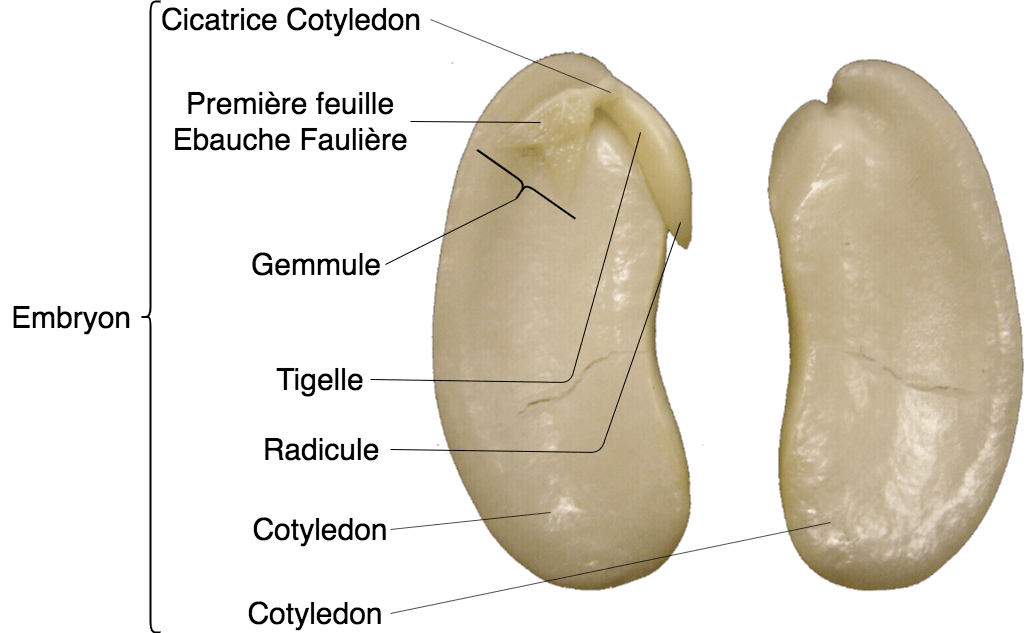
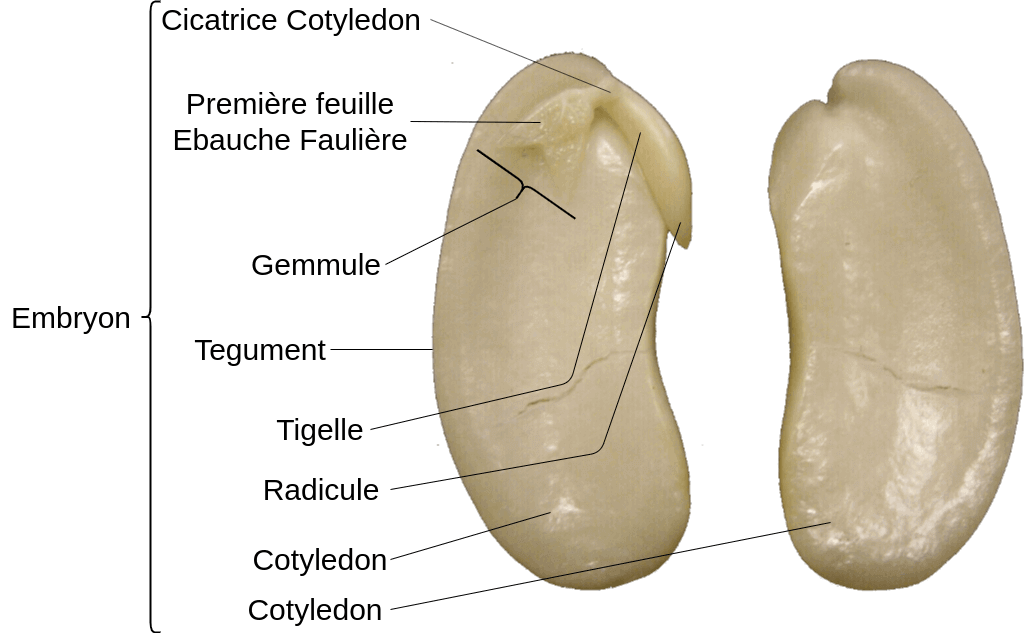
Correction photo haricot plus refactor
Refactor biodiversité végétales suite

diff --git a/biodiversite/biodiversite-vegetale.md b/biodiversite/biodiversite-vegetale.md
@@ -41,6 +41,8 @@ Les cellules végétales sont **eucaryotes**, d'une taille d'environ **100μm**.
 * **Ribosome** \(Fabrique des protéine\)
 * **Vacuole** délimité par une membrane, le **Tonoplaste**
 {% endhint %}
+![Sch&#xE9;ma d&apos;une cellule v&#xE9;g&#xE9;tale](../.gitbook/assets/cellule-vegetale.jpg)
+![Cellule v&#xE9;g&#xE9;tale](../.gitbook/assets/la_cellule_vegetale_07_13.jpg)
 ##### Vacuole
 {% hint style="warning" %}
 La vacuole est délimitée par le **tonoplaste** et éffectue différent rôle
@@ -61,6 +63,9 @@ Constitution d'une paroi primaire
 * enzymes
 {% endhint %}
 Certaines cellules on la possibilité d'avoir deux parois. La paroi secondaire se situes sous la paroi primaire
+{% hint style="info" %}
+**Lamelle moyenne** est le **ciment** entre les cellules végétales
+{% endhint %}
 Les parois peuvent avoir des spécialisation
 {% hint style="warning" %}
 * Lignification, Incrustation lignine (hydrophobe, insoluble)
@@ -115,10 +120,81 @@ Les parois assurent différents rôle
 ##### Soutient
 ## Plan organisation Morphologique
 ### Graine
+Le point de départ des angiosperme est la graine, formée de différentes parties
+{% hint style="warning" %}
+* Gemmule
+* Première feuille
+* Tigelle
+* Radicule
+* Cotylédon \(réserve\)
+* Tégument \(Entoure le cotylédon\)
+{% endhint %}
+![](../.gitbook/assets/graine-haricot.png)
 ### Bourgeon
 ### Tige
 ### Racine
 ### Feuille
+{% hint style="info" %}
+#### **Définition**
+
+**Feuille :** Organe aplati, généralement de couleur verte, qui assure l'essentiel de la photosynthèse et les échange d'eau et de gaz avec l'atmosphère.
+
+**Limbe :** Partie élargie et aplatie de la feuille qui assure la photosynthèse.
+
+**Marge :** La marge est le contour du limbe.
+
+**Nervure :** Ligne saillante formée par les faisceaux conducteurs de la feuille.
+
+**Pétiole :** Structure de petite dimension, à symétrie bilatérale, **reliant le limbe** de la feuille à la **tige** qui convient les **vaisseaux conducteurs de sève.**
+
+**Bourgeon :** Structure constituée par de très jeunes feuilles \(Bourgeon foliaire\) ou de très jeunes fleurs \(Bourgeon florale\) situé sur un axe relativement court, terminé par un méristème apical caulinaire, et protégé par des feuilles modifiées, les écailles.  
+**Le bourgeon ne fais pas partie de la feuille !**
+
+**Tige :** Organe généralement aérien, plus ou moins dressé et ramifié, sur lequel se développent des bourgeons qui se différencient soit en feuilles, soit en fleurs, soit en axes secondaires \(rameaux\) qui, à leur tour, portent des feuilles ou des fleurs.
+
+**Foliole :** Division d'une feuille composée en unités élémentaires \(Contrairement au feuille, les folioles ne possèdent pas de bourgeons\)
+{% endhint %}
+
+{% hint style="warning" %}
+Une feuille simple est bien différente qu'une feuille composée.  
+Pour trouver une feuille il faut situer ou est le bourgeon, qui est la "Base" de cette dernière.
+{% endhint %}
+
+{% hint style="warning" %}
+#### Nervation
+* Marge du limbe
+  * Entière
+  * Dentée
+  * Lobée
+* Nervure
+  * Pénée
+  * Palmée
+  * Parallèle
+{% endhint %}
+
+![](../.gitbook/assets/schema-feuille-simple-et-compose.jpg)
+
+![](../.gitbook/assets/differenciation-feuille.jpg)
+
+{% hint style="danger" %}
+Le **bourgeon** ne fais pas partie de la **Feuille**
+{% endhint %}
+
+![Photo feuille composée](../.gitbook/assets/feuille-compose-haricot.jpg)
+
+#### Phyllotaxie
+Il existe 4 grandes phyllotaxie
+{% hint style="warning" %}
+* Alterne spiralée
+* Alterne distique
+* Opposée décussée
+* Verticillée
+{% endhint %}
+
+![Phyllotaxie](../.gitbook/assets/phyllotaxie.png)
+
+![Compos&#xE9; de stipules ou non ? ](../.gitbook/assets/compose-de-stipules.png)
+
 ## Adaptation aux condition environnemental
 ## Travaux Pratique
 ## Définition
@@ -136,127 +212,6 @@ Le groupe des angiosperme est le dernier à être arriver sur terre est donc **l
 {% endhint %}
 
 ![Grand groupe des v&#xE9;g&#xE9;taux sur terre](../.gitbook/assets/abre-phyloginetique.png)
-
-## Qu'est ce qu'un végétal ?
-
-### Construction des cellules végétales
-
-{% hint style="success" %}
-Les parties importante d'une cellule végétales sont le noyaux et les organites listées ci-dessous
-
-* **Noyaux** \(Entouré d'une enveloppe nucléaire\)
-* **Cytoplasme** \(Contient de l'eau et des ions\)
-* **Membrane plasmique** \(Délimite le cytoplasme\)
-* **Mitochondrie** \(Respiration, produit du $$H_2O_2$$ toxique pour la plante\)
-* **Réticulum endoplasmique** \(Produit des lipide et protéine\)
-* **Appareil de Golgi** \(Réservoir de protéine\)
-* **Péroxysome** \(Dégrade le $$H_2O_2$$ en $$H_2O$$ et $$O_2$$ \)
-* **Ribosome** \(Fabrique des protéine\)
-* **Vacuole** délimité par une membrane, le **Tonoplaste**
-{% endhint %}
-
-#### Cellule végétale en cours
-
-![Sch&#xE9;ma d&apos;une cellule v&#xE9;g&#xE9;tale](../.gitbook/assets/cellule-vegetale.jpg)
-
-{% hint style="info" %}
-**Lamelle moyenne** est le **ciment** entre les cellules végétales
-{% endhint %}
-
-#### Cellule végétale
-
-![Cellule v&#xE9;g&#xE9;tale](../.gitbook/assets/la_cellule_vegetale_07_13.jpg)
-
-### Caractéristiques principales d'un végétal
-
-{% hint style="warning" %}
-* **Cellule Eucaryote**
-* **Photosynthèse oxygénique**
-* **Autotrophe** pour le **carbone**
-* Métabolite secondaires
-* **Paroi, Plaste, Vacuole** au niveau de la cellule végétale.
-* La taille des cellules allant de $$30\mu m \ à \ 120\mu m$$ 
-{% endhint %}
-
-### Comment fonctionne la photosynthèse
-
-Les chlorophylles dans les chloroplastes permettent la photosynthèse grâce à l’énergie solaire.
-
-![&#xC9;quation photosynth&#xE8;se](../.gitbook/assets/photosynthesis_equation_fr.png)
-
-### Métabolite secondaire
-
-En plus des **métabolites primaires** \(ADN, ARN, lipide, glucides etc etc\) les végétaux peuvent produire des métabolites secondaire pour se **protéger** \(Odeur, Gout\) ou pour la **dissémination des graines** et du pollen \(Couleur\)
-
-### Les différentes fonctions des plastes
-
-Une cellules végétales peut avoir plusieurs plastes différentes
-
-{% hint style="success" %}
-**Chloroplaste :** Permet la photosynthèse, Synthèse acide gras, fixation carbone, azote et souffre  
-**Chromoplaste :** Permet l'attraction des pollinisateurs et dissémilateurs de graine grâce au changement de couleur  
-**Amyloplastes :** Sert de réserve et de géo-perception \(Permet au racine de pousser vers le bas\)
-{% endhint %}
-
-### La vacuole
-
-La vacuoles est délimitée par un **tonoplaste**. La vacuole à plusieurs rôle au sein de la cellule
-
-{% hint style="success" %}
-* Stockage d'eau et de nutriments de manière transitoire
-* Croissance
-* Soutient \(par pression et turgescence\)
-* Élimination des déchets et éléments toxiques de la plante
-* Défense et attraction avec la production de pigments, tanin et autre molécules
-{% endhint %}
-
-### Parois
-
-{% hint style="info" %}
-#### Définition
-
-Matrice extracellulaire entourant la **membrane plasmique** des cellules des **végétaux** **chlorophylliens**.  
-La paroi primaire, caractéristique des cellules jeunes, est constitué par des micro fibrilles de cellulose \(25 à 30%\) disposées dans tous les sens, ce qui lui permet d'être extensible, de pectines \(jusqu’à 35%\), d'hémicellulose \(15 à 25%\) et de glycoprotéines \(5 à 10%\). Son épaisseur est de 1 et 3 µm. La **paroi secondaire** se forme au cours de la différenciation de la cellule, elle est plus épaisse, moins hydratée, contient une proposition plus importante de cellulose mais pas de pectine. Elle se situe **sous la paroi primaire**
-{% endhint %}
-
-{% hint style="success" %}
-La **paroi primaire** assure un rôle de régulation de la **croissance cellulaire**
-
-Les **parois** contienne **toutes** de la **cellulose**
-{% endhint %}
-
-Il existe deux types de parois pour les cellules végétales, paroi primaire et secondaire.  
-La communication entre les cellules se fait par les petites perforations au niveaux des parois qu'on appelle **plasmodesme,** qui permet de communiquer de **cytoplasme** d'une cellule à une autre, si il y a un groupe de plasmodesme alors on est en présence d'une **ponctuation.**
-
-{% hint style="info" %}
-**Symplasme :** Ensemble des **cytoplasmes** communiquant par le biais de **plasmodesmes**
-
-**Apoplasme :** Ensemble des parois des cellules et des espaces de vide \(Cellules mortes + parois\)
-{% endhint %}
-
-La paroi primaire contient différents éléments important utiles pour la plantes
-
-* Eau à 60 - 70%
-* Micro-fibrilles de cellulose
-* Hémicellulose
-* Pectines
-* Protéines
-* Enzymes
-* Calcium \(0.5% - 1%\)
-
-La paroi secondaire sert notamment de soutient pour le végétal, majoritairement constitué de cellulose et d'eau, elle se dépose ultérieurement sur la paroi primaire, elle est toujours constitué de 3 couches.
-
-Les parois des cellules végétales ont différentes spécialisation, mais ne sont pas obligatoirement présente sous cette forme.  
-**Lignification :** Incrustation **lignine** \(Hydrophobe, insoluble\), cela entraîne la **mort de la cellule**, \*\*Tissus type Xylène et Sclérenchyme
-
-Subérification : **Incrustation subérine \(lipide\), forme le** suber\*\* \(Liège, écorce\)
-
-**Cutinisation :** Dépôt de cires \(Epiderme\)
-
-### Pour conclure
-
-Les végétaux comprend **toutes les algues**, qui produisent de la **chlorophylle a , a/b, a/c** et divers pigments ainsi que que les plantes **embryophytes**, qui produisent de la **chlorophylle a/b**.  
-En L1 c'est la **lignée verte** qui nous intéresse, donc **une partie des algues** et tous les **embryophytes**
 
 ## La lignée verte, les grands groupes des végétaux
 
@@ -329,95 +284,6 @@ Pour se faire les plantes se sont adapté et ont crée des système qui réponde
 {% endhint %}
 
 ## Focus sur les angiosperme
-
-{% hint style="info" %}
-Pour faire simple un angiosperme à des tiges des feuilles et des racines
-{% endhint %}
-
-### Graine
-
-Le point de départ des angiosperme est la graine, formée de différentes parties
-
-{% hint style="warning" %}
-* Gemmule
-* Première feuille
-* Tigelle
-* Radicule
-* Cotylédon \(réserve\)
-* Tégument \(Entoure le cotylédon\)
-{% endhint %}
-
-![](../.gitbook/assets/graine-haricot.png)
-
-{% embed url="https://www.youtube.com/watch?v=w77zPAtVTuI&feature=youtu.be" caption="Germination Graine Haricot" %}
-
-### Feuille
-
-{% hint style="info" %}
-#### **Définition**
-
-**Feuille :** Organe aplati, généralement de couleur verte, qui assure l'essentiel de la photosynthèse et les échange d'eau et de gaz avec l'atmosphère.
-
-**Limbe :** Partie élargie et aplatie de la feuille qui assure la photosynthèse.
-
-**Marge :** La marge est le contour du limbe.
-
-**Nervure :** Ligne saillante formée par les faisceaux conducteurs de la feuille.
-
-**Pétiole :** Structure de petite dimension, à symétrie bilatérale, **reliant le limbe** de la feuille à la **tige** qui convient les **vaisseaux conducteurs de sève.**
-
-**Bourgeon :** Structure constituée par de très jeunes feuilles \(Bourgeon foliaire\) ou de très jeunes fleurs \(Bourgeon florale\) situé sur un axe relativement court, terminé par un méristème apical caulinaire, et protégé par des feuilles modifiées, les écailles.  
-**Le bourgeon ne fais pas partie de la feuille !**
-
-**Tige :** Organe généralement aérien, plus ou moins dressé et ramifié, sur lequel se développent des bourgeons qui se différencient soit en feuilles, soit en fleurs, soit en axes secondaires \(rameaux\) qui, à leur tour, portent des feuilles ou des fleurs.
-
-**Foliole :** Division d'une feuille composée en unités élémentaires \(Contrairement au feuille, les folioles ne possèdent pas de bourgeons\)
-{% endhint %}
-
-{% hint style="warning" %}
-Une feuille simple est bien différente qu'une feuille composée.  
-Pour trouver une feuille il faut situer ou est le bourgeon, qui est la "Base" de cette dernière.
-{% endhint %}
-
-{% hint style="warning" %}
-#### Nervation
-
-* Marge du limbe
-  * Entière
-  * Dentée
-  * Lobée
-* Nervure
-  * Pénée
-  * Palmée
-  * Parallèle
-{% endhint %}
-
-![](../.gitbook/assets/schema-feuille-simple-et-compose.jpg)
-
-![](../.gitbook/assets/differenciation-feuille.jpg)
-
-{% hint style="danger" %}
-Le **bourgeon** ne fais pas partie de la **Feuille**
-{% endhint %}
-
-#### Photo feuille composée
-
-![](../.gitbook/assets/feuille-compose-haricot.jpg)
-
-### Phyllotaxie
-
-Il existe 4 grandes phyllotaxie
-
-{% hint style="warning" %}
-* Alterne spiralée
-* Alterne distique
-* Opposée décussée
-* Verticillée
-{% endhint %}
-
-![Phyllotaxie](../.gitbook/assets/phyllotaxie.png)
-
-![Compos&#xE9; de stipules ou non ? ](../.gitbook/assets/compose-de-stipules.png)
 
 ### Système racinaire
 
